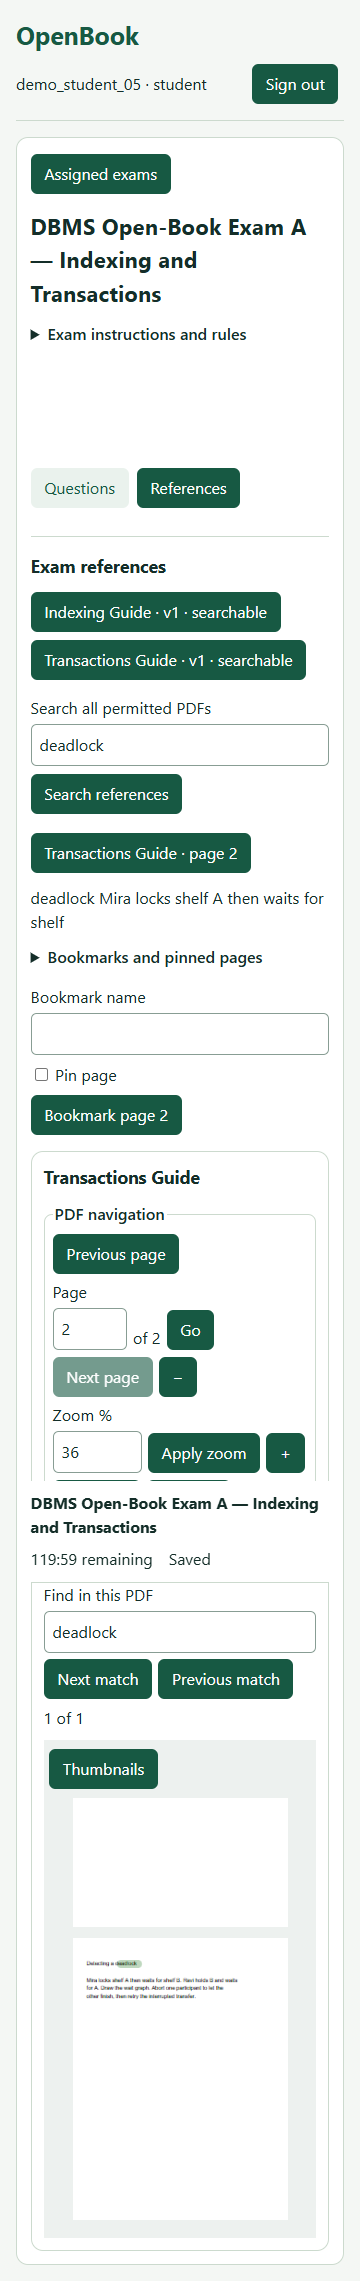
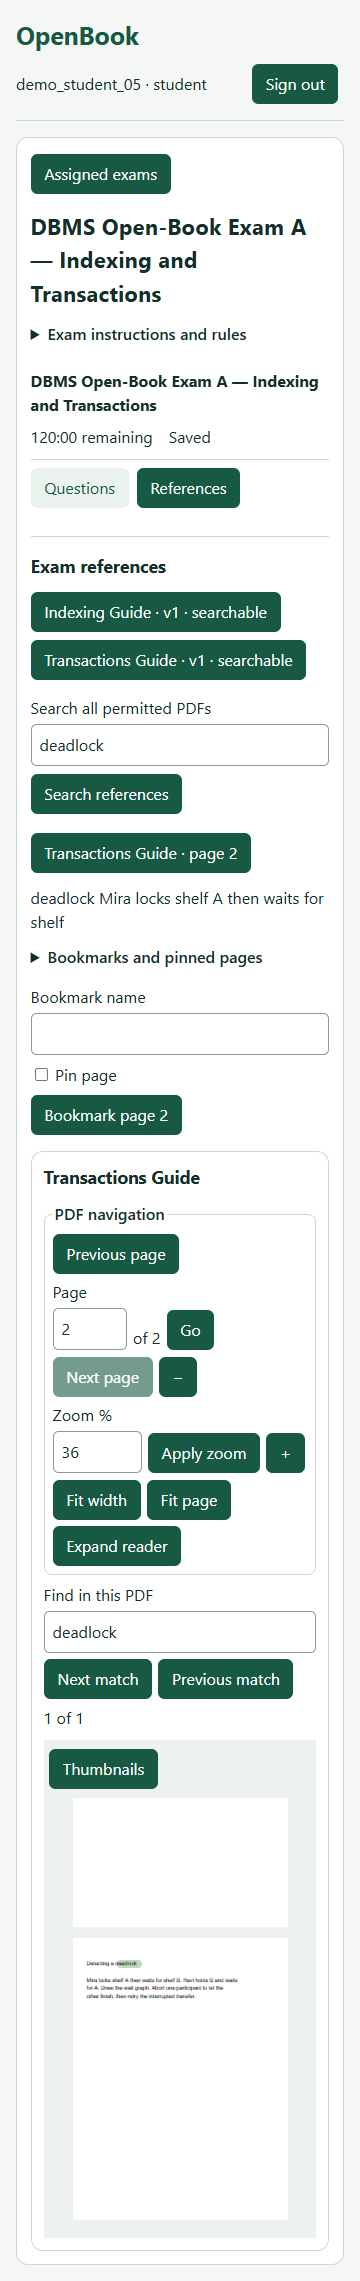
Verify responsive reader navigation and capture review screenshots (#45 #46)

diff --git a/backend/tests/test_browser.py b/backend/tests/test_browser.py
@@ -20,6 +20,7 @@ def screenshot(page, name):
     if directory:
         path = Path(directory)
         path.mkdir(parents=True, exist_ok=True)
+        page.evaluate("window.scrollTo(0, 0)")
         page.screenshot(path=path / (name + ".png"), full_page=True)
 
 
@@ -206,10 +207,12 @@ def test_reference_browser(pilot, website, monkeypatch, tmp_path):
         expect(page.locator(".reader output")).to_contain_text("of")
         expect(page.locator(".reader .textLayer .highlight").first).to_be_visible()
         screenshot(page, "07-reader-mobile")
-        page.set_viewport_size({"width": 1440, "height": 900})
-        screenshot(page, "08-workspace-desktop")
         button("Previous page").click()
-        expect(page.get_by_role("spinbutton", name="Page", exact=True)).to_have_value(
-            "1"
-        )
+        page_number = page.get_by_role("spinbutton", name="Page", exact=True)
+        expect(page_number).to_have_value("1")
+        page.set_viewport_size({"width": 1440, "height": 900})
+        page_number.fill("2")
+        button("Go").click()
+        expect(page_number).to_have_value("2")
+        screenshot(page, "08-workspace-desktop")
         browser.close()

diff --git a/docs/phase-4-progress.md b/docs/phase-4-progress.md
@@ -19,6 +19,14 @@ Phase 3 acceptance was confirmed against the merged PR and CI. Issues #21–31 a
 - [x] Idempotent ten-question Windows rehearsals.
 - [ ] Human review of screenshots and practical reader and workspace usability.
 
+## Verification and browser screenshots
+
+- Chrome captured [sign-in](phase-4-screenshots/01-login.png), [lecturer dashboard](phase-4-screenshots/02-lecturer-dashboard.png), [course and exams](phase-4-screenshots/03-course-and-exams.png), [mobile library](phase-4-screenshots/04-reference-library-mobile.png), and [student dashboard](phase-4-screenshots/05-student-dashboard.png).
+- Review the [mobile workspace](phase-4-screenshots/06-workspace-mobile.png), [mobile reader](phase-4-screenshots/07-reader-mobile.png), and [desktop split workspace](phase-4-screenshots/08-workspace-desktop.png).
+- Chrome verified upload, image-only preview, a simulated network failure and retry, refresh recovery of answers and flags, an exact unified-search jump, and in-document match highlighting.
+- The Windows rehearsal command produced the same two exam IDs on consecutive runs after upgrading to migration 0004. Existing demo exams remained available.
+- Verify practical usability in human review with a representative course corpus. The current browser evidence uses Chrome and synthetic documents.
+
 ## Implementation notes
 
 Student APIs project stems and options without returning grading keys. The attempt row is locked before applying saves or finalizing. Revision conflicts require the student to reload server-saved work or retry after a transient failure. A failed voluntary save keeps submission blocked until the student retries or explicitly reloads acknowledged work. The expiry worker and API use the same finalized state. An attempt's response JSON becomes read-only at finalization.
